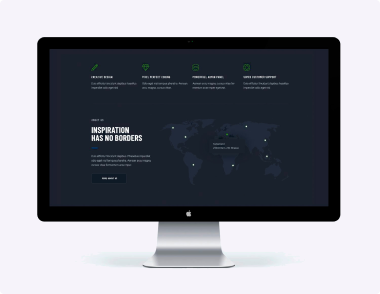
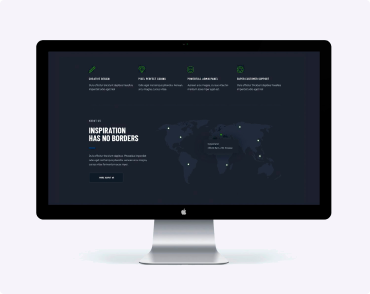
changes

diff --git a/css/style.css b/css/style.css
@@ -37,9 +37,7 @@ body {
 }
 .container {
   width: 1200px;
-  padding-left: 15px;
-  padding-right: 15px;
-  padding-top: 94px;
+  padding: 94px 15px;
   margin: 0 auto;
 }
 
@@ -252,9 +250,6 @@ body {
   margin-top: 0;
   margin-bottom: 0;
 }
-.team-list .worker {
-  margin-bottom: 94px;
-}
 .team-list .header {
   font-weight: 500;
   font-size: 16px;
@@ -351,11 +346,16 @@ body {
   margin: 0;
   color: var(--primary-white-color);
 }
+.filter-item {
+  margin-right: 8px;
+}
+.filter-item:last-child {
+  margin-right: 0px;
+}
 .filter .item {
   background: var(--background-color);
   padding: 12px 24px;
   border-radius: 4px;
-  margin-right: 8px;
 
   font-family: inherit;
   font-size: 16px;
@@ -366,6 +366,8 @@ body {
 .filter .item:focus {
   background: var(--selection-color);
   color: var(--primary-white-color);
+  box-shadow: 0px 2px 2px rgba(0, 0, 0, 0.12), 0px 1px 2px rgba(0, 0, 0, 0.08),
+    0px 3px 1px rgba(0, 0, 0, 0.1);
 }
 .projects-list .link {
   text-decoration: none;
@@ -438,6 +440,17 @@ body {
 }
 .logo-address {
   margin-right: 69px;
+}
+.footer-icon {
+  background-color: #44454e;
+  width: 44px;
+  height: 44px;
+  display: block;
+  border-radius: 80%;
+  margin-right: 11px;
+}
+.footer-icon:hover {
+  background-color: var(--selection-color);
 }
 .action {
   color: var(--primary-white-color);

diff --git a/index.html b/index.html
@@ -63,7 +63,7 @@
         </div>
       </section>
       <section class="section">
-        <div class="container attributes">
+        <div class="container">
           <h2 class="section-title visually-hidden">Характеристики</h2>
           <ul class="attr-list">
             <li class="item">
@@ -298,22 +298,22 @@
         <div class="joinus">
           <b class="action">Присоединяйтесь</b>
           <ul class="social-links">
-            <li>
+            <li class="footer-icon">
               <a href="http://instagram.com" aria-label="Ссылка на Instagram"
                 >Instagram
               </a>
             </li>
-            <li>
+            <li class="footer-icon">
               <a href="http://twitter.com" aria-label="Ссылка на Twitter"
                 >Twitter
               </a>
             </li>
-            <li>
+            <li class="footer-icon">
               <a href="http://facebook.com" aria-label="Ссылка на Facebook"
                 >Facebook
               </a>
             </li>
-            <li>
+            <li class="footer-icon">
               <a href="http://linkedin.com" aria-label="Ссылка на Linkedin"
                 >Linkedin
               </a>
